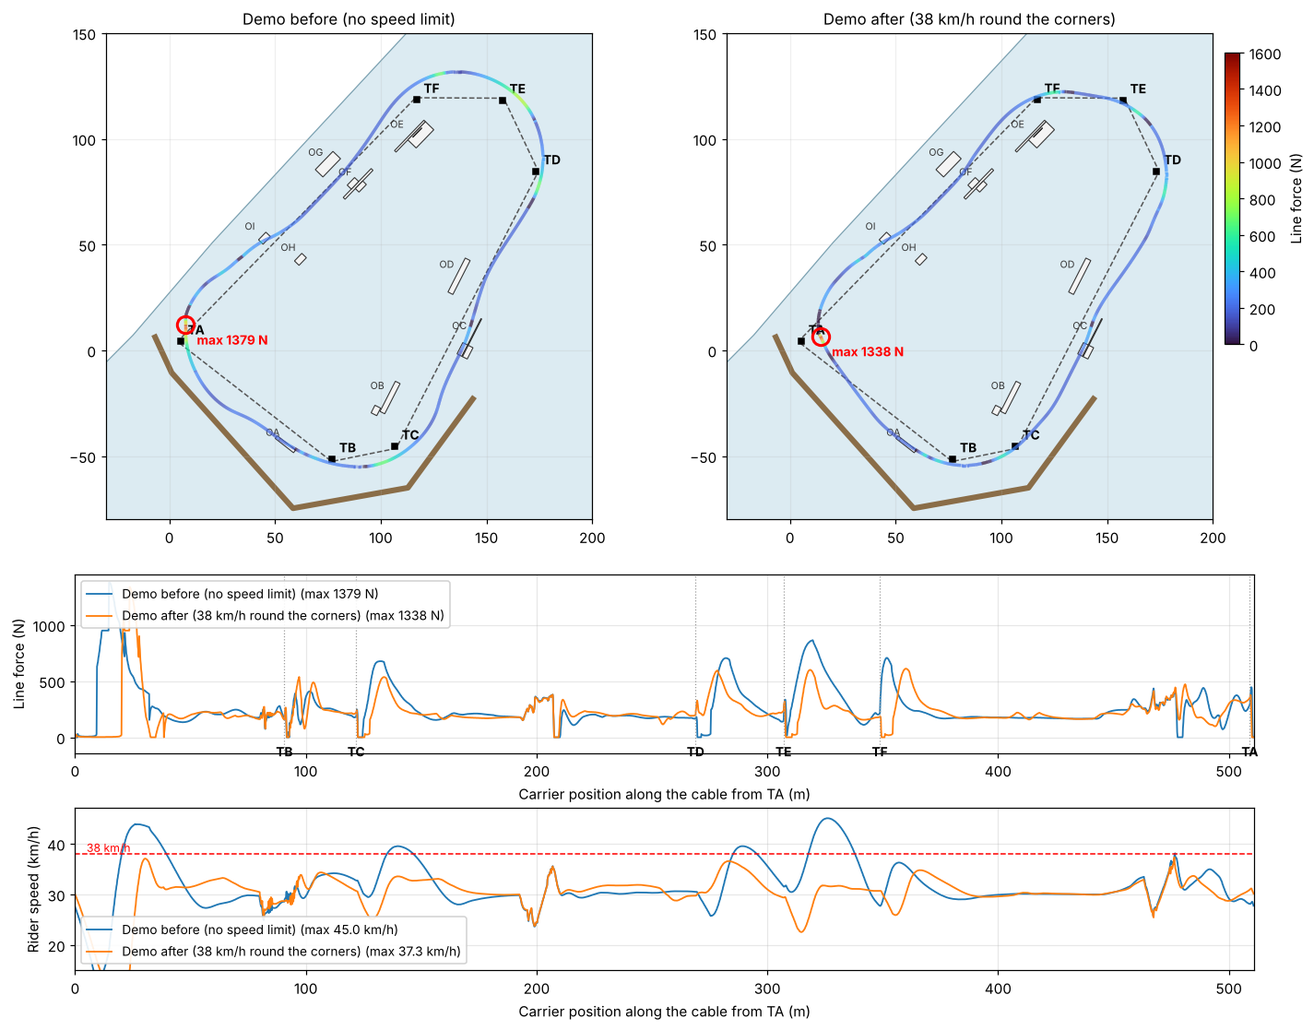
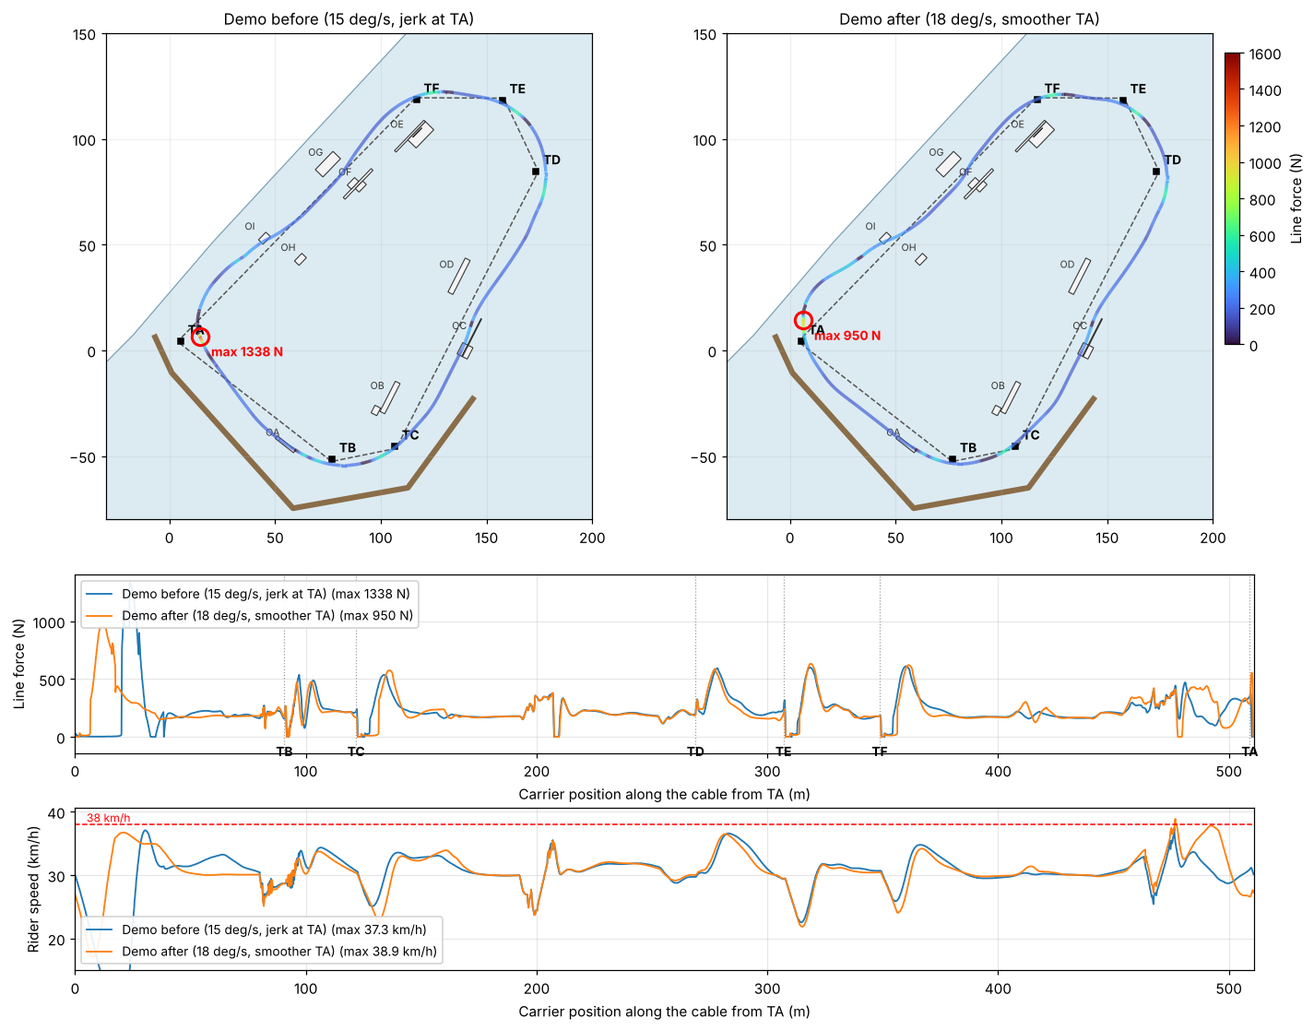
Smoother last turn at TA; board turns 18 deg/s (CARVE_SLIP 1.24)
CARVE_SLIP 1.49 -> 1.24 (user): fully edged on a taut line the board now turns
18 deg/s (measured headless, was 15.4 deg/s).

Demo rider re-tuned at TA (OI crossed 26 deg, set-up 13.5 m out, carve faded
out over 0.5 s): rope slack at TA 0.75 s per lap (was 2.9 s), slowest 17 km/h
(was 5), line force rising at 3.5 kN/s (was 11 kN/s), peak 0.95 kN (was 1.34).
Still <= 38 km/h round the corners and 8.4 m outside the cable at TD.
Free ride re-tuned: 0.72 kN. Carve onset/fade-out (rampIn, rampOut) per corner.

Claude-Session: https://claude.ai/code/session_01TaxDqcd2zFNFDfc4T27AaK

diff --git a/src/physics.js b/src/physics.js
@@ -165,7 +165,7 @@ const PHYS = {
   YAW_C_AIR:    0.5,     // N·m·s  yaw damping in the air (aerodynamic, spinning body). Assumed
   YAW_C_W:      10,      // N·m·s per m/s  yaw-dæmpning fra vandet, ∝ fart. Antaget
   // Carving: et kantet board med rocker følger sin skrå rail. Kurveradius R = (L²/8h)·CARVE_SLIP / sin(kant).
-  CARVE_SLIP:   1.49,    // –      faktor mellem geometrisk rail-radius (L²/8h ≈ 4,1 m) og faktisk carve-radius pga. slip. Antaget; 2,2/1,15 → 1,91 (bruger, 25/9-2026) → 1,70: 11 % mindre radius ved samme kant (bruger, 28/9-2026); 1,70 → 1,49 (bruger, 4/10-2026): fuldt kantet (45°) med stram line drejer boardet 15 °/s (før 13,2 °/s)
+  CARVE_SLIP:   1.24,    // –      faktor mellem geometrisk rail-radius (L²/8h ≈ 4,1 m) og faktisk carve-radius pga. slip. Antaget; 2,2/1,15 → 1,91 (bruger, 25/9-2026) → 1,70: 11 % mindre radius ved samme kant (bruger, 28/9-2026); 1,70 → 1,49 (bruger, 4/10-2026): fuldt kantet (45°) med stram line drejer boardet 15 °/s (før 13,2 °/s); 1,49 → 1,24 (bruger, 5/10-2026): 18 °/s fuldt kantet med stram line (målt headless: 15,4 → 18,0 °/s)
   CARVE_TAU:    0.25,    // s      hvor hurtigt vandet drejer boardet ind på railens kurve. Antaget
   PIVOT_K:      400,     // N·m/rad  riderens aktive drej af boardet med fødderne ved stor sideslip. Antaget
   PIVOT_TAU_MAX: 180,    // N·m    maks. drejemoment fra fødderne. Antaget
@@ -1173,27 +1173,27 @@ const DEMO_SETTINGS = { cableKmh: 30, releaseN: 2500 };   // a strong demo rider
 // the largest line force over a lap at 30 km/h, winds 0 and 8 m/s, rider ≥ 4 m from shore and jetty, clear of the
 // features, and at most 38 km/h before and after the corners (user, 5 Oct 2026; run-ups to features are exempt):
 // see docs/corner_minmax.md.
-const CORNER_DEFAULT = { edge: 20, edgeFor: 5, offset: 0, lead: 0, vmax: 4, cap: 35, turnIn: 0, carve: 0, carveFor: 0 };
+const CORNER_DEFAULT = { edge: 20, edgeFor: 5, offset: 0, lead: 0, vmax: 4, cap: 35, turnIn: 0, carve: 0, carveFor: 0, rampIn: 0, rampOut: 0 };
 // Free riding (no features), with { plan: [], corners: FREE_RIDE_CORNERS, gains: FREE_RIDE_GAINS }: largest line force
-// 0.67 kN (TE), ≤ 38 km/h, 8 m outside the cable at TD (user: be further right before TD; TD's peak drops from 0.65 to
-// 0.43 kN). At ≤ 35 km/h it was 0.95 kN at TA; riding the line gives 1.96 kN at 47 km/h.
+// 0.71–0.73 kN (TA), ≤ 38 km/h, 8 m outside the cable at TD (user: be further right before TD; TD's peak drops from 0.65
+// to 0.43 kN). Riding the line gives 1.96 kN at 47 km/h. Tuned with CARVE_SLIP 1.24 (18 °/s).
 const FREE_RIDE_CORNERS = {
   TC: { edge: 5.7, offset: 1.9, lead: 2.1, carve: 13.7 },
   TD: { edge: 45, offset: 6, lead: 1.3, vmax: 2.8, carve: 5.2 },
   TE: { edge: 6.8, offset: 5.4, lead: 2.3, vmax: 5, turnIn: 0.5, carve: 35.8, carveFor: 3.3 },
-  TA: { edge: 4, offset: 17.5, lead: 10, vmax: 3, turnIn: 2.9, carve: 45, carveFor: 0.5 },   // 4 m from the NW shore at the closest
+  TA: { edge: 0, offset: 18, lead: 10, vmax: 2.4, turnIn: 2.55, carve: 40.5, carveFor: 1.65, rampOut: 0.65 },   // 4.5 m from the NW shore at the closest
 };
-const FREE_RIDE_GAINS = { k1: 0.8, vmax: 2, vLim: 37.8 };
-// Demo rider (DEMO_PLAN): largest line force ≈1.35 kN at TA, ≤ 37 km/h round the corners and on the run-up to OA,
-// 8 m outside the cable at TD. The OA rail 69 m after TA leaves no room to swing wide at TA within the speed limit
-// (35 km/h gave 1.5 kN; going wider gives 1.0 kN at 42–44 km/h).
+const FREE_RIDE_GAINS = { k1: 0.8, vmax: 2, vLim: 37.55 };
+// Demo rider (DEMO_PLAN): largest line force 0.94–0.95 kN at TA, ≤ 38 km/h round the corners and on the run-up to OA,
+// 8.4 m outside the cable at TD. TA (user, 5 Oct 2026: a smoother last turn): out ≈10.5 m at the sheave, full carve
+// faded out over 0.5 s; the rope is slack ≈0.75 s per lap (was 2.9 s) and comes taut at ≈3.5 kN/s (was 11 kN/s).
 const DEMO_CORNERS = { ...FREE_RIDE_CORNERS,
-  TD: { edge: 45, edgeFor: 8, offset: 8, lead: 2, vmax: 2.8, carve: 5.2 },
-  TA: { edge: 33.4, offset: 7.2, lead: 7.8, vmax: 2.8, turnIn: 2, carve: 38.6, carveFor: 1 } };
+  TD: { edge: 45, edgeFor: 8, offset: 8.5, lead: 2, vmax: 2.8, carve: 5.2 },
+  TA: { edge: 45, offset: 13.5, lead: 4.6, vmax: 3.5, turnIn: 2.25, carve: 45, carveFor: 4.8, rampOut: 0.5 } };
 
 const DEMO_PLAN = [
   { name: 'OC left ramp', act: 'jump', pop: true, grab: -1 },    // pop off the ramp, tail grab
-  { name: 'OI kicker', act: 'jump', spin: -1, grab: 1, cross: 21.3, diag: 14.1 },   // crossed 21° to the right (out towards TA's set-up line), 360 to the right with a nose grab
+  { name: 'OI kicker', act: 'jump', spin: -1, grab: 1, cross: 26, diag: 14.4 },   // crossed 26° to the right (out towards TA's set-up line), 360 to the right with a nose grab
   { name: 'OA rising rail', act: 'slide', boardslide: 1 },       // boardslide, turned back before the end
 ];
 function createAutopilot(sim, opts = {}) {
@@ -1203,7 +1203,7 @@ function createAutopilot(sim, opts = {}) {
   // cap/capNear (°) lean limits far from / within 6 m of the entry. Tuned by a parameter sweep (headless).
   const ap = { focus: null, phase: 'line', tAir: null, flight: 0,
     // vLim (km/h): speed limit while getting out to a corner set-up line (user, 5 Oct 2026: max 38 km/h round the corners)
-    gains: { k1: 1.08, kh: 1.5, vmax: 2.48, cap: 35, capNear: 15, vLim: 37.8, ...opts.gains } };
+    gains: { k1: 1.27, kh: 1.5, vmax: 3, cap: 35, capNear: 15, vLim: 37.55, ...opts.gains } };
   const clamp = (x, a) => Math.max(-a, Math.min(a, x));
   // Corner technique per tower (TA–TF), see CORNER_DEFAULT / DEMO_CORNERS.
   const cornerCfg = { ...DEMO_CORNERS, ...opts.corners }, masts = (sim.layout || LAYOUT).masts, nW = sim.path.wheels.length;
@@ -1224,6 +1224,9 @@ function createAutopilot(sim, opts = {}) {
     const w = ap.corners.reduce((a, b) => toSheave(b) < toSheave(a) ? b : a);
     return clamp(1.5 * lat / D2R + (toSheave(w) < w.c.edgeFor ? w.c.edge : 0), 45);
   }
+  // Carve lean as a fraction of c.carve at time t (s, carrier time relative to the sheave, − before): it builds up over the
+  // first c.rampIn s after turn-in and fades over the last c.rampOut s before carveFor ends (0 = a step, as before)
+  const carveRamp = (c, t) => Math.min(1, c.rampIn > 0 ? (t + c.turnIn) / c.rampIn : 1, c.rampOut > 0 ? Math.max(0, (c.carveFor - t) / c.rampOut) : 1);
   const afterCorner = () => ap.corners.find(w => w.c.carveFor > 0 && pastSheave(w) < w.c.carveFor) || null;
   function cornerSetup() {   // the next corner set-up within its lead time: { w, tt = time to the sheave (s) }
     for (const w of ap.corners) { const tt = toSheave(w); if (tt < w.c.lead) return { w, tt }; }
@@ -1285,14 +1288,14 @@ function createAutopilot(sim, opts = {}) {
       if (p.act === 'slide' && p.boardslide && sim.out.rail && d < -3.5) spin = p.boardslide;   // turn back before the end
     } else {
       const k = cornerSetup();
-      if (k && !sim.jump && k.tt < k.w.c.turnIn) { lean = -k.w.c.carve; ap.phase = 'turn-in'; }   // carve in towards the inside of the corner
+      if (k && !sim.jump && k.tt < k.w.c.turnIn) { lean = -k.w.c.carve * carveRamp(k.w.c, -k.tt); ap.phase = 'turn-in'; }   // carve in towards the inside of the corner
       else if (k && !sim.jump) {   // get out to the set-up line; sideways speed limited so the total stays below gains.vLim
         const ob = k.w.ob, va = R.vx * ob.ax + R.vy * ob.ay, vLim = (ap.gains.vLim || 99) / 3.6;
         const vm = Math.max(0.3, Math.min(k.w.c.vmax, Math.sqrt(Math.max(0, vLim * vLim - va * va))));
         lean = ap.track(ob, local(ob).v, 20, k.w.c.cap, vm); ap.phase = 'wide'; }
       else ap.phase = 'line';
       const a = k ? null : afterCorner();
-      if (a && a.c.carve) { lean = -a.c.carve; ap.phase = 'turn-in'; }
+      if (a && a.c.carve) { lean = -a.c.carve * carveRamp(a.c, pastSheave(a)); ap.phase = 'turn-in'; }
     }
     sim.leanCmdIn = lean * D2R; sim.legCmdIn = leg; sim.spinIn = spin; sim.grabIn = grab;
   };

diff --git a/tools/corner_minmax/evalr.js b/tools/corner_minmax/evalr.js
@@ -11,14 +11,18 @@ function run(cfg = {}, { wind = 0, laps = 3, trace = false } = {}) {
   const s = P.createSim({ ...P.DEMO_SETTINGS, wind, ...(cfg.sim || {}) });
   const ap = P.createAutopilot(s, cfg.ap || {});
   const L = s.path.length, arcs = s.path.pieces.filter(g => g.kind === 'arc');
-  const res = { fall: '', corner: {}, legPeak: 0, minShore: 1e9, contacts: new Set(), tricks: new Set(), peak: 0, peakAt: null, tr: [], vmax: 0, vmaxAt: null, lat: {}, vc: {}, imp: {}, vCorner: {}, vOA: 0 };
+  const res = { fall: '', corner: {}, legPeak: 0, minShore: 1e9, contacts: new Set(), tricks: new Set(), peak: 0, peakAt: null, tr: [], vmax: 0, vmaxAt: null, lat: {}, vc: {}, imp: {}, vCorner: {}, vOA: 0, jerk: {}, slack: {}, vminC: {} };
+  const Fbuf = [];
   for (const id of TOW) res.corner[id] = 0;
   let k = 0, prevCs = 0;
   const legs = s.path.pieces.map((g, i) => s.path.pieces[i - 1]);
+  const wall0 = Date.now();
   while (s.carrier.s < (laps + 1) * L && s.t < 400) {
+    if ((k & 1023) === 0 && Date.now() - wall0 > 30000) { res.fall = "timeout"; break; }
     ap.update(); s.step(); k++;
     if (s.out.fall) { res.fall = s.out.fall + ' @' + s.t.toFixed(1) + ' cs ' + (s.carrier.s % L).toFixed(0); break; }
     if (s.out.lastTrick) res.tricks.add(s.out.lastTrick.name);
+    if (s.out.lastAir && s.out.lastAir !== res._la) { res._la = s.out.lastAir; if (s.carrier.s >= L) (res.airs = res.airs || []).push({ cs: +(s.carrier.s % L).toFixed(0), dur: +s.out.lastAir.dur.toFixed(2), h: +(s.out.lastAir.hmax || 0).toFixed(2), x: +s.rider.x.toFixed(1), y: +s.rider.y.toFixed(1), from: s.out.lastAir.from }); }
     if (s.carrier.s < L) continue;   // skip the start lap
     const cs = s.carrier.s % L, F = s.line.F;
     arcs.forEach((g, i) => { const leg = s.path.pieces[s.path.pieces.indexOf(g) - 1]; if (prevCs < g.s0 && cs >= g.s0 && !(TOW[i] in res.lat)) res.lat[TOW[i]] = +(-((s.rider.x - leg.a[0]) * -leg.t[1] + (s.rider.y - leg.a[1]) * leg.t[0])).toFixed(1); });
@@ -29,10 +33,13 @@ function run(cfg = {}, { wind = 0, laps = 3, trace = false } = {}) {
     let best = null;
     arcs.forEach((g, i) => { let d = cs - g.s0; if (d > L / 2) d -= L; if (d < -L / 2) d += L; const t = d / s.cableSpeed; if (t > -8 && t < 10 && (!best || Math.abs(t) < Math.abs(best.t))) best = { id: TOW[i], t }; });
     const key = best ? best.id : 'leg'; const Vh = Math.hypot(s.rider.vx, s.rider.vy) * 3.6;
-    if (['line', 'wide', 'turn-in'].includes(ap.phase) && !s.jump) res.vCorner[key] = Math.max(res.vCorner[key] || 0, Vh);
+    if (['line', 'wide', 'turn-in', 'slack'].includes(ap.phase) && !s.jump) res.vCorner[key] = Math.max(res.vCorner[key] || 0, Vh);
     if (ap.focus && /OA/.test(ap.focus.p.name) && ap.phase === 'approach') res.vOA = Math.max(res.vOA, Vh);
     res.imp[key] = (res.imp[key] || 0) + Math.max(0, F - 600) * P.PHYS.DT; res.vc[key] = Math.max(res.vc[key] || 0, Math.hypot(s.rider.vx, s.rider.vy) * 3.6);
     if (best) res.corner[best.id] = Math.max(res.corner[best.id], F); else res.legPeak = Math.max(res.legPeak, F);
+    Fbuf.push(F); if (Fbuf.length > 24) Fbuf.shift();
+    if (best) { const id = best.id; res.jerk[id] = Math.max(res.jerk[id] || 0, (F - Fbuf[0]) / (P.PHYS.DT * (Fbuf.length - 1 || 1)));
+      if (best.t > -2 && best.t < 5) { if (F < 30 && !s.jump) res.slack[id] = (res.slack[id] || 0) + P.PHYS.DT; res.vminC[id] = Math.min(res.vminC[id] ?? 99, Vh); } }
     const V = Math.hypot(s.rider.vx, s.rider.vy) * 3.6; if (V > res.vmax) { res.vmax = V; res.vmaxAt = { cs: +cs.toFixed(1), phase: ap.phase, air: !!s.jump }; }
     if (F > res.peak) { res.peak = F; res.peakAt = { cs: +cs.toFixed(1), phase: ap.phase, focus: ap.focus ? ap.focus.p.name : '' }; }
     if (trace && k % 4 === 0) res.tr.push([+s.t.toFixed(2), +cs.toFixed(1), +s.rider.x.toFixed(2), +s.rider.y.toFixed(2), +F.toFixed(0), ap.phase, +(s.rider.psi * 180 / Math.PI).toFixed(1), +s.tow.x.toFixed(2), +s.tow.y.toFixed(2), +(Math.hypot(s.rider.vx, s.rider.vy) * 3.6).toFixed(2)]);

diff --git a/tests/demo_autopilot.test.js b/tests/demo_autopilot.test.js
@@ -8,7 +8,8 @@ const { createSim, createAutopilot, DEMO_SETTINGS, FREE_RIDE_CORNERS, FREE_RIDE_
 // (line / wide / turn-in, on the water), largest speed on the run-up to the OA rail, offset outside the cable at each sheave
 function ride(s, ap, laps) {
   const L = s.path.length, arcs = s.path.pieces.filter(g => g.kind === 'arc');
-  const o = { peak: 0, vCorner: 0, vOA: 0, out: {} }; let prev = 0;
+  const o = { peak: 0, vCorner: 0, vOA: 0, out: {}, jerkTA: 0 }; let prev = 0; const Fb = [];
+  const arcTA = arcs.find(g => g.len / g.R > 1.6);
   while (s.carrier.s < (laps + 1) * L && s.t < 400) {
     ap.update(); s.step();
     assert.equal(s.out.fall, '', `no fall (t ${s.t.toFixed(1)} s, phase ${ap.phase})`);
@@ -16,6 +17,9 @@ function ride(s, ap, laps) {
     if (s.carrier.s >= L) {
       const V = Math.hypot(s.rider.vx, s.rider.vy) * 3.6;
       o.peak = Math.max(o.peak, s.line.F);
+      Fb.push(s.line.F); if (Fb.length > 24) Fb.shift();   // rise of the line force over 0.1 s near the TA sheave (the 'jerk')
+      let d = cs - arcTA.s0; if (d > L / 2) d -= L; if (d < -L / 2) d += L;
+      if (Math.abs(d / s.cableSpeed) < 6) o.jerkTA = Math.max(o.jerkTA, (s.line.F - Fb[0]) / (23 / 240));
       if (['line', 'wide', 'turn-in'].includes(ap.phase) && !s.jump) o.vCorner = Math.max(o.vCorner, V);
       if (ap.focus && /OA/.test(ap.focus.p.name) && ap.phase === 'approach') o.vOA = Math.max(o.vOA, V);
       for (const g of arcs) if (prev < g.s0 && cs >= g.s0) {
@@ -49,12 +53,13 @@ for (const wind of [0, 4, 8]) {
 
 // Corner technique (docs/corner_minmax.md): max 38 km/h round the corners and on the run-up from TA to OA
 for (const wind of [0, 10]) {
-  test(`demo rider: ≤ 38 km/h round the corners and to OA, 8 m out at TD, line force below 1.45 kN (wind ${wind} m/s)`, () => {
+  test(`demo rider: ≤ 38 km/h round the corners and to OA, 8 m out at TD, line force ≤ 1 kN, smooth at TA (wind ${wind} m/s)`, () => {
     const s = createSim({ ...DEMO_SETTINGS, wind }), o = ride(s, createAutopilot(s), 2);
     assert.ok(o.vCorner < 38, `corner speed ${o.vCorner.toFixed(2)} km/h`);
     assert.ok(o.vOA < 38, `OA run-up ${o.vOA.toFixed(2)} km/h`);
     assert.ok(o.out[TD_ARC] >= 7.95, `TD offset ${o.out[TD_ARC].toFixed(1)} m`);
-    assert.ok(o.peak < 1450, `peak ${o.peak.toFixed(0)} N`);
+    assert.ok(o.peak < 1000, `peak ${o.peak.toFixed(0)} N`);
+    assert.ok(o.jerkTA < 5000, `line force rise at TA ${o.jerkTA.toFixed(0)} N/s`);
   });
   test(`free riding: ≤ 38 km/h, 8 m right of the cable at TD, line force below 0.75 kN (wind ${wind} m/s)`, () => {
     const s = createSim({ ...DEMO_SETTINGS, wind });

diff --git a/tools/corner_minmax/opt.js b/tools/corner_minmax/opt.js
@@ -22,9 +22,10 @@ if (process.argv[3] === 'worker') {
       const cp = Object.values(r.corner), pk = Math.max(r.legPeak, ...cp);
       let j = pk + 0.05 * cp.reduce((a, b) => a + b, 0) / cp.length + pen;
       if (spec.focus) { const oth = Math.max(r.legPeak, ...Object.entries(r.corner).filter(([k]) => !spec.focus.includes(k)).map(([, v]) => v));
-        j = Math.max(...spec.focus.map(k => r.corner[k])) + 0.5 * Math.max(0, oth - (spec.otherRef || 0)) + pen + (spec.impW || 0) * spec.focus.reduce((q, k) => q + (r.imp[k] || 0), 0); }
+        j = Math.max(...spec.focus.map(k => r.corner[k])) + 0.5 * Math.max(0, oth - (spec.otherRef || 0)) + pen + (spec.impW || 0) * spec.focus.reduce((q, k) => q + (r.imp[k] || 0), 0)
+          + spec.focus.reduce((q, k) => q + (spec.jerkW || 0) * (r.jerk[k] || 0) + (spec.slackW || 0) * (r.slack[k] || 0) / spec.laps, 0); }
       J = Math.max(J, j); worst = Math.max(worst, pk);
-      detail.push({ w, pk: Math.round(pk), vmax: +r.vmax.toFixed(1), vCorner: Math.max(0, ...Object.values(r.vCorner)).toFixed(1), vOA: r.vOA.toFixed(1), lat: r.lat, corner: Object.fromEntries(Object.entries(r.corner).map(([k, v]) => [k, Math.round(v)])), leg: Math.round(r.legPeak), shore: +r.minShore.toFixed(1), fall: r.fall, bad, tricks: r.tricks });
+      detail.push({ w, jerk: r.jerk, slack: r.slack, vminC: r.vminC, pk: Math.round(pk), vmax: +r.vmax.toFixed(1), vCorner: Math.max(0, ...Object.values(r.vCorner)).toFixed(1), vOA: r.vOA.toFixed(1), lat: r.lat, corner: Object.fromEntries(Object.entries(r.corner).map(([k, v]) => [k, Math.round(v)])), leg: Math.round(r.legPeak), shore: +r.minShore.toFixed(1), fall: r.fall, bad, tricks: r.tricks });
     }
     process.send({ id, J, worst, detail });
   });

diff --git a/docs/corner_minmax.md b/docs/corner_minmax.md
@@ -1,5 +1,7 @@
 # Corner technique with the smallest peak line force (min-max)
 
+_Updated 5 Oct 2026: `CARVE_SLIP` 1.49 → 1.24 (board turns 18 °/s fully edged on a taut line, was 15 °/s; user) and a smoother last turn at TA. See section 5._
+
 5 Oct 2026. Geometry as in `src/physics.js` after commit `cba111b` (TE sheave at [157.5, 118.2]). Cable 30 km/h,
 release limit 2.5 kN (`DEMO_SETTINGS`), 20 m rope. All numbers come from the headless simulator, not from measurements.
 
@@ -50,24 +52,48 @@ the OI crossing and the approach gains. Scripts: `tools/corner_minmax/`.
 | Rider | Largest line force | Speed round the corners | Out at TD | Out at TA |
 |---|---|---|---|---|
 | Free ride, following the rope | 1.96 kN | 47 km/h | 4.0 m | 4.0 m |
-| Free ride, min-max without speed limit | 0.67 kN | 40 km/h | 6.1 m | 12.0 m |
-| Free ride, min-max, ≤ 35 km/h, ≥ 8 m at TD | 0.95 kN (TA) | ≤ 35.0 km/h | 8.1 m | 10.0 m |
-| **Free ride, min-max, ≤ 38 km/h, ≥ 8 m at TD** (`FREE_RIDE_CORNERS`) | **0.66–0.67 kN** (TE) | **≤ 37.7 km/h** | **8.1 m** | 11.7 m |
-| Demo before (wide at TA only) | 1.38–1.42 kN | 45 km/h | 3.5 m | 8.2 m |
-| Demo, ≤ 35 km/h | 1.51–1.53 kN | ≤ 34.8 km/h, 35.8 to OA | 7.3 m | 4.7 m |
-| **Demo, ≤ 38 km/h** (`DEMO_CORNERS`, same OC/OI/OA) | **1.34–1.37 kN** (TA) | **≤ 36.8 km/h, 37.1 to OA** | **8.0 m** | 3.5 m |
+| Free ride, min-max without speed limit (15 °/s) | 0.67 kN | 40 km/h | 6.1 m | 12.0 m |
+| Free ride, min-max, ≤ 35 km/h, ≥ 8 m at TD (15 °/s) | 0.95 kN (TA) | ≤ 35.0 km/h | 8.1 m | 10.0 m |
+| **Free ride, min-max, ≤ 38 km/h, ≥ 8 m at TD, 18 °/s** (`FREE_RIDE_CORNERS`) | **0.71–0.73 kN** (TA) | **≤ 37.3 km/h** | **8.0 m** | 11.9 m |
+| Demo, wide at TA only (original) | 1.38–1.42 kN | 45 km/h | 3.5 m | 8.2 m |
+| Demo, ≤ 35 km/h (15 °/s) | 1.51–1.53 kN | ≤ 34.8 km/h, 35.8 to OA | 7.3 m | 4.7 m |
+| Demo, ≤ 38 km/h (15 °/s, commit d5578f7) | 1.34–1.37 kN (TA) | ≤ 36.8 km/h, 37.1 to OA | 8.0 m | 3.5 m |
+| **Demo, ≤ 38 km/h, 18 °/s, smooth TA** (`DEMO_CORNERS`, same OC/OI/OA) | **0.94–0.95 kN** (TA) | **≤ 37.9 km/h**, 37.7 to OA | **8.4 m** | 10.5 m |
 
 - **TD further right helps**: in free riding the TD peak drops from 0.65 kN (6.1 m out) to 0.43 kN (8.1 m out).
-- **Free riding at ≤ 38 km/h**: TA now goes 11.7 m out (4.0 m from the NW shore, the limit) and is no longer the worst
-  corner; the peak is at TE. Same peak as without a speed limit, 2 km/h slower.
-- **Demo**: the OA rail 69 m after TA leaves little room to swing wide at TA. Force against speed at TA (blends between
-  techniques): 1.5 kN at ≤ 35, 1.34 kN at ≤ 37, 1.3 kN at 41, 1.0 kN at 42–44 km/h. The OI kicker is now crossed 21° to
-  the right (was 25° originally) so he lands towards TA's set-up line; TD is ridden with a longer edge-out (8 s).
+- **Free riding at ≤ 38 km/h, 18 °/s**: TA goes 11.9 m out (4.5 m from the NW shore) and is the worst corner at
+  0.71–0.73 kN (at 15 °/s: 0.67 kN at TE, with TA right on the 4 m shore margin).
+- **Demo at 15 °/s**: the OA rail 69 m after TA left little room to swing wide at TA (1.5 kN at ≤ 35, 1.34 kN at ≤ 37,
+  1.0 kN at 42–44 km/h). At 18 °/s this is no longer the limit: see section 5.
 
 ## 4. Limits
 
 - The optimum is within this family of techniques and this controller, not a proof of a global optimum.
 - The speed limit is measured in the corner phases on the water; run-ups, air and landings at OC and OI are exempt
-  (up to ≈37 km/h after the landings).
+  (up to ≈39 km/h after the OI landing).
 - Positions of the TE sheave, the shore and the features carry several metres of uncertainty; re-run
   `tools/corner_minmax` when they move.
+
+## 5. A smoother last turn at TA (5 Oct 2026)
+
+With the 15 °/s turn rate the demo rider reached the TA sheave only 3.5 m outside the cable, with the board already
+turned 26° in. The rope went slack for 2.6 s, he slowed from 30 to 5 km/h, and the rope came taut again from 0 to 1 kN in
+0.1 s (≈11 kN/s, against 1.5–2.6 kN/s at the other corners) and pulled him back up to 37 km/h. Neither a softer OI jump
+(legs bent over the lip: 2.0 → 1.8 m high, same air time), crossing OI further right (≥ 35° hits the kicker's side),
+softer carve onsets nor steering while the rope was slack changed this much (best ≈8.6 kN/s at 1.45 kN): at 15 °/s the
+rider either stays inside (slack, then a jerk) or goes wide (55–60 km/h and ≈2 kN when the rope swings him round).
+
+At 18 °/s (`CARVE_SLIP` 1.24, measured headless: 15.4 → 18.0 °/s) a new optimisation that also penalised the rise rate
+of the line force and slack time found a smooth corner: OI crossed 26° to the right, set-up line 13.5 m out from 4.6 s
+before the sheave, full carve from 2.25 s before to 4.8 s after it, faded out over the last 0.5 s.
+
+| Demo at TA (0–10 m/s wind) | 15 °/s (before) | 18 °/s (now) |
+|---|---|---|
+| Out at the sheave | 3.5 m | 10.2–10.5 m |
+| Rope slack per lap | 2.9 s | ≈0.75 s |
+| Slowest | 5 km/h | 17 km/h |
+| Rise of the line force (0.1 s) | ≈11 kN/s | 3.5–3.8 kN/s |
+| Largest line force | 1.34 kN | 0.95 kN (the arms yield at 950 N) |
+
+The total speed limit while getting out to a set-up line is `gains.vLim` = 37.55 km/h, which keeps the corner phases
+at ≤ 37.9 km/h. Run-ups, air and landings at the jumps are exempt (up to ≈39 km/h after the OI landing).

diff --git a/README.md b/README.md
@@ -44,7 +44,7 @@ All constants are in the `PHYS` block at the top of `src/physics.js`, with unit 
 | `src/face_texture.jpg` | The rider's face (photo of the user, cropped and feathered to skin colour); projected onto the front of the head, inlined by `build.py`. |
 | `build.py` | Builds `dist/copenhagen_cable_park_sim.html` (standalone) and `.frag.html` (artifact body). |
 | `dist/` | Built simulator. |
-| `tests/demo_autopilot.test.js` | The drone-flyby demo rider rides three laps without a fall in 0, 4 and 8 m/s wind, lands a tail grab and a 360 and slides OA; round the corners and to OA he stays below 38 km/h, 8 m out at TD, with a peak line force below 1.45 kN; free riding with `FREE_RIDE_CORNERS` stays below 38 km/h, 8 m out at TD and below 0.75 kN. |
+| `tests/demo_autopilot.test.js` | The drone-flyby demo rider rides three laps without a fall in 0, 4 and 8 m/s wind, lands a tail grab and a 360 and slides OA; round the corners and to OA he stays below 38 km/h, 8 m out at TD, with a peak line force below 1 kN and the line force at TA rising slower than 5 kN/s; free riding with `FREE_RIDE_CORNERS` stays below 38 km/h, 8 m out at TD and below 0.75 kN. |
 | `tests/copenhagen_cable_park_sim_validation.js` | Headless validation against the physics report (straight case, edge manoeuvre, time-step convergence, energy residual, pop, sensitivity, starts, release limit, corners, wind, tricks, rails). |
 | `analysis/` | CCP layout and obstacle analyses (source material). |
 | `docs/` | "Physics and Simulation of a Cable-Park Wakeboard Rider" report. |
@@ -108,11 +108,12 @@ custom scenario; the following reset starts from the selected dock position.
 **DRONE FLYBY** on the start screen (or `D` there, or the URL hash `#flyby`) starts a demo: a director camera
 flies over the park while a demo rider runs the course on his own. The rider is `createAutopilot(sim)` in
 `src/physics.js`; it sets only the player's inputs (lean, legs, spin, grab) and follows `DEMO_PLAN`: a popped
-tail grab off the OC left ramp, a 360 to the right with a nose grab off the OI kicker (crossed 21° to the right) and a
+tail grab off the OC left ramp, a 360 to the right with a nose grab off the OI kicker (crossed 26° to the right) and a
 boardslide on the OA rising rail. Each corner is ridden with the technique in `DEMO_CORNERS` (edge-out, set-up line
 outside the cable, carve in), chosen so the largest line force over a lap is as small as possible (min-max) while the
 rider stays at or below 38 km/h before and after the corners and on the run-up to OA (run-ups to jumps exempt):
-≈1.35 kN at TA, 8 m outside the cable at TD. Without features, `FREE_RIDE_CORNERS` gives 0.67 kN at ≤38 km/h.
+≈0.95 kN at TA with a smooth last turn (rope slack ≈0.75 s, taking up at ≈3.5 kN/s), 8.4 m outside the cable at TD.
+Without features, `FREE_RIDE_CORNERS` gives ≈0.72 kN at ≤38 km/h.
 Analysis, trade-offs and limits: `docs/corner_minmax.md` (scripts in `tools/corner_minmax/`).
 While the demo runs the cable speed is 30 km/h and
 the release limit 2.5 kN (`DEMO_SETTINGS`); both are given back afterwards. Airtime plays in slow motion, tricks
